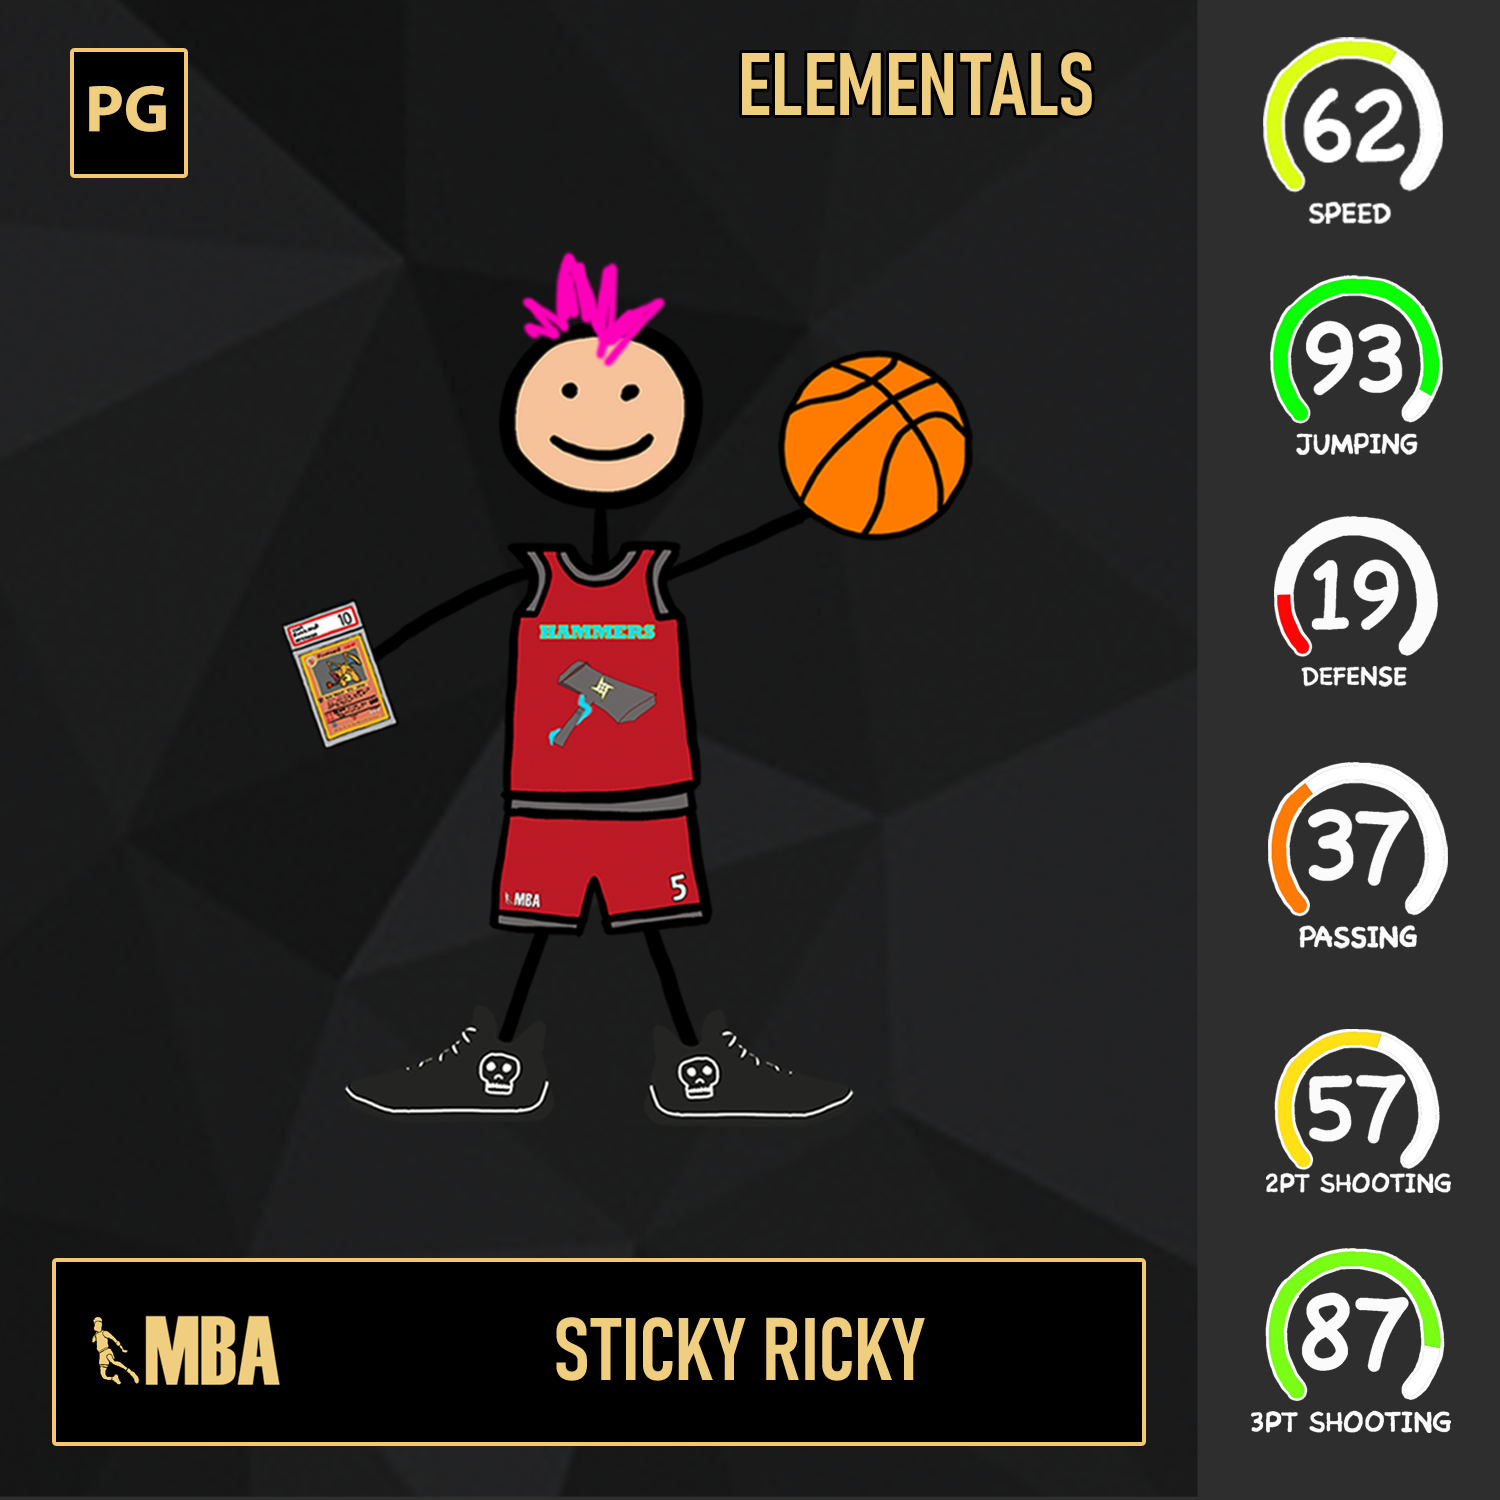
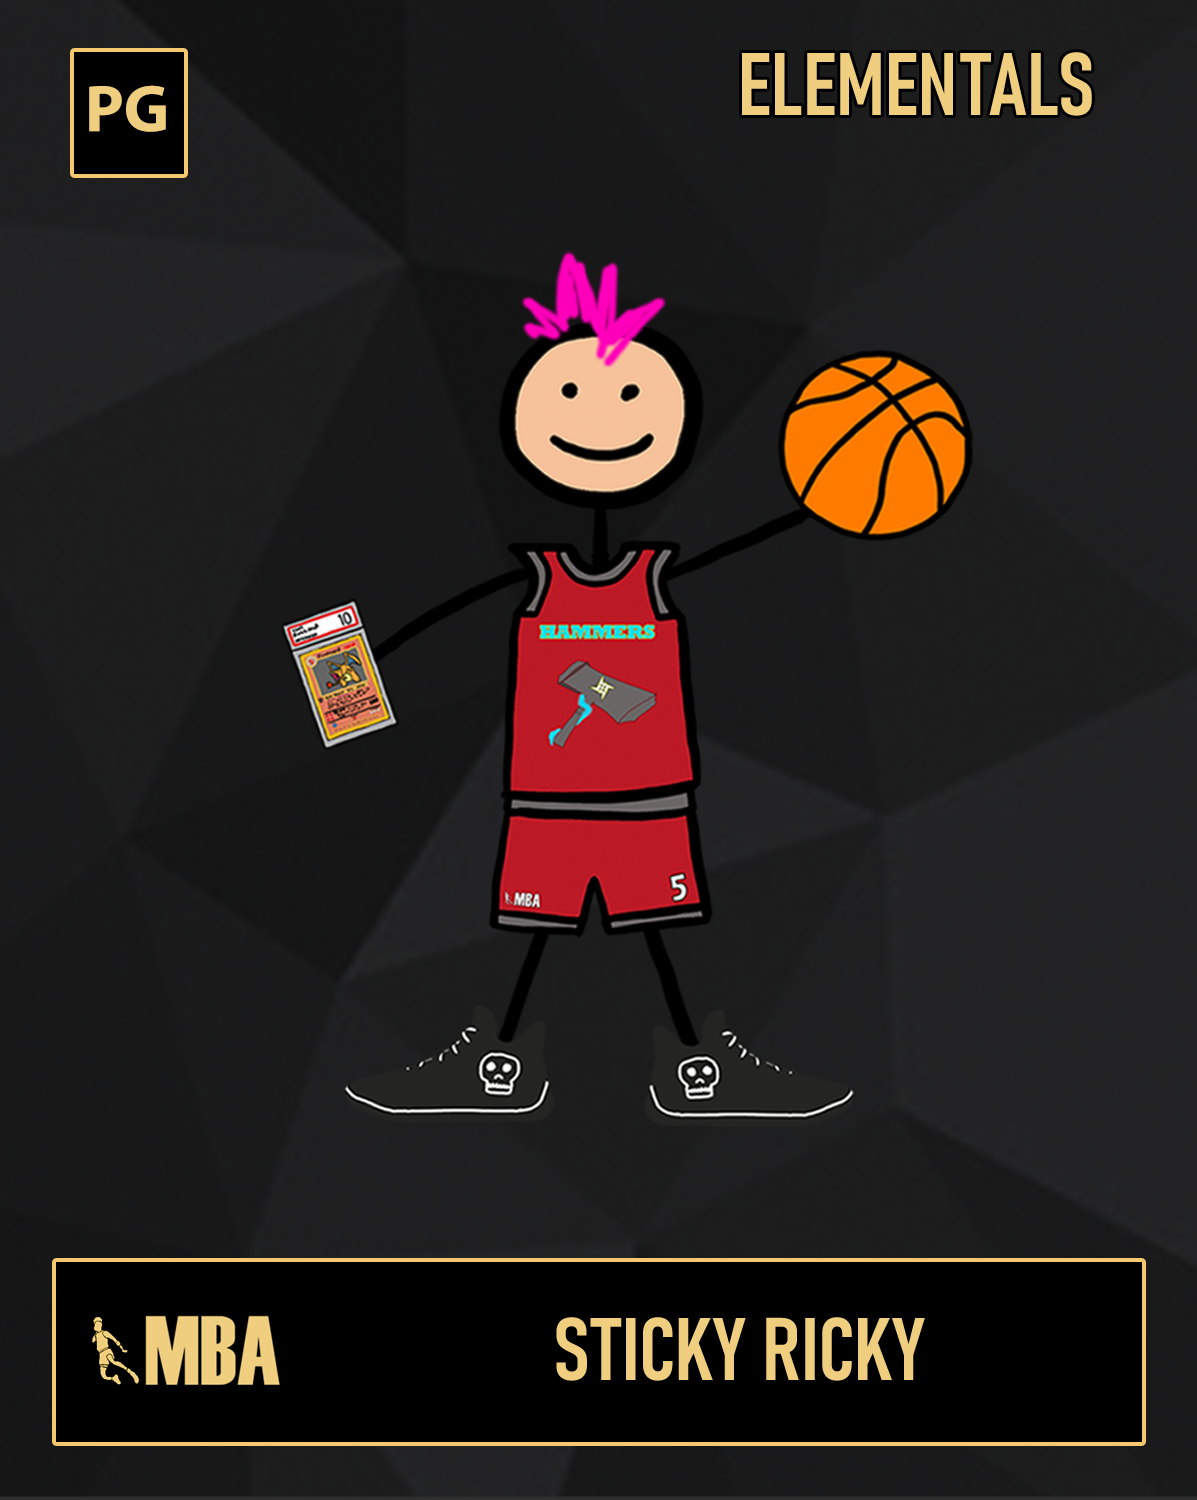
Trying out new design format

diff --git a/src/Main/Main.js b/src/Main/Main.js
@@ -1,20 +1,25 @@
 import React from 'react';
-import { CardImage, MainContainer, MainImageContainer, Card} from './style';
+import { CardImage, MainContainer, MainImageContainer, Card, CenterImage} from './style';
 import Tilt from 'react-parallax-tilt';
 import InfoSections from './InfoSections';
 import PlayerAsset from '../images/PlayerAsset.png';
+import DunkLogo from '../images/DunkLogo.png';
 
 export const Main = () => {
     return (
         <MainContainer>
-            <MainImageContainer>
+            
+            {/* <MainImageContainer>
                 <Tilt>
                     <Card>
                         <CardImage/>
                     </Card>
                 </Tilt>
             </MainImageContainer>
-            <InfoSections />
+            <InfoSections /> */}
+            <MainImageContainer>
+                <CenterImage src={DunkLogo} alt="dunk logo" />
+            </MainImageContainer>
         </MainContainer>
     );
 }

diff --git a/src/Navbar/Navbar.js b/src/Navbar/Navbar.js
@@ -1,13 +1,13 @@
 import React from 'react';
 import {NavContainer, MainLogo, LinkContainer, ExternalLinkImage} from './style';
-import MBALogo from '../images/MBALogo.png';
-import TwitterLink from '../images/TwitterLogo.svg';
-import DiscordLink from '../images/DiscordLogo.svg';
+import MBA from '../images/MBA.png';
+import TwitterLink from '../images/twitterLogo.png';
+import DiscordLink from '../images/discordLogo.png';
 
 export const Navbar = () => {
     return(
         <NavContainer>
-            <MainLogo src={MBALogo} alt="Metaverse Baller Association" />
+            <MainLogo src={MBA} alt="Metaverse Baller Association" />
             <LinkContainer >
                 <a href='https://discord.gg/X26wqgPUmC' target='_blank' rel="noreferrer">
                     <ExternalLinkImage src={DiscordLink} alt="Discord Logo"/>

diff --git a/src/Main/style.js b/src/Main/style.js
@@ -4,7 +4,7 @@ import PlayerCardNewPrototype from '../images/PlayerCardNewPrototype.png';
 export const MainContainer = styled('div')`
     display: flex;
     flex-direction: column;
-    min-height: 800px;
+    flex: 1;
 `;
 
 export const MainImageContainer = styled('div')`
@@ -13,7 +13,7 @@ export const MainImageContainer = styled('div')`
     flex-direction: row;
     justify-content: center;
     align-items: center;
-    min-height: 80vh;
+    height: 50vh;
 `;
 
 export const Card = styled('div')`
@@ -33,4 +33,9 @@ export const CardImage = styled('div')`
     width: 23rem;
     border-radius: 15px;
     background-size: cover;
+`;
+
+export const CenterImage = styled('img')`
+    width: 250px;
+    height: auto;
 `;

diff --git a/src/style.js b/src/style.js
@@ -16,11 +16,11 @@ export const GlobalStyle = createGlobalStyle`
   }
   #root {
     margin: 0;
-    min-height: 100vh;
+    height: 100vh;
     min-width: 100vh;
   }
   body {
-    background: #080808;
+    background: #282828;
     margin: 0px;
     height: 100%;
     width: 100%;
@@ -52,17 +52,18 @@ export const GlobalStyle = createGlobalStyle`
 export const AppContainer = styled('div')`
   display: flex;
   flex-direction: column;
-  min-height: 90%;
+  height: 100vh;
 `;
 
 export const NavBarContainer = styled('div')`
-
 `;
 
 export const MainSectionContainer = styled('div')`
-
+  display: flex;
+  flex: 1;
 `;
 
 export const FooterContainer = styled('div')`
-
+  height: 100px;
+  padding: 40px;
 `;

diff --git a/src/Footer/style.js b/src/Footer/style.js
@@ -1,0 +1,18 @@
+import styled  from 'styled-components';
+
+export const Title = styled('div')`
+  font-size: 25px;
+  color: #292929;
+  text-align: center;
+  font-family: 'Oswald', sans-serif;
+  text-transform: uppercase;
+  -webkit-text-stroke-width: 1px;
+  -webkit-text-stroke-color: #efce7f;
+`;
+
+export const ButtonsContainer = styled('div')`
+  display: flex;
+  flex-direction: row;
+  justify-content: space-evenly;
+  align-items: center;
+`;

diff --git a/src/Footer/Footer.js b/src/Footer/Footer.js
@@ -1,7 +1,17 @@
+import { Title, ButtonsContainer } from './style';
+
 export const Footer = () => {
     return (
-        <div>
-            Footer
-        </div>
+        <ButtonsContainer>
+            <Title>
+                Gameplay
+            </Title>
+            <Title>
+                Mint
+            </Title>
+            <Title>
+                Teams
+            </Title>
+        </ButtonsContainer>
     );
 }
